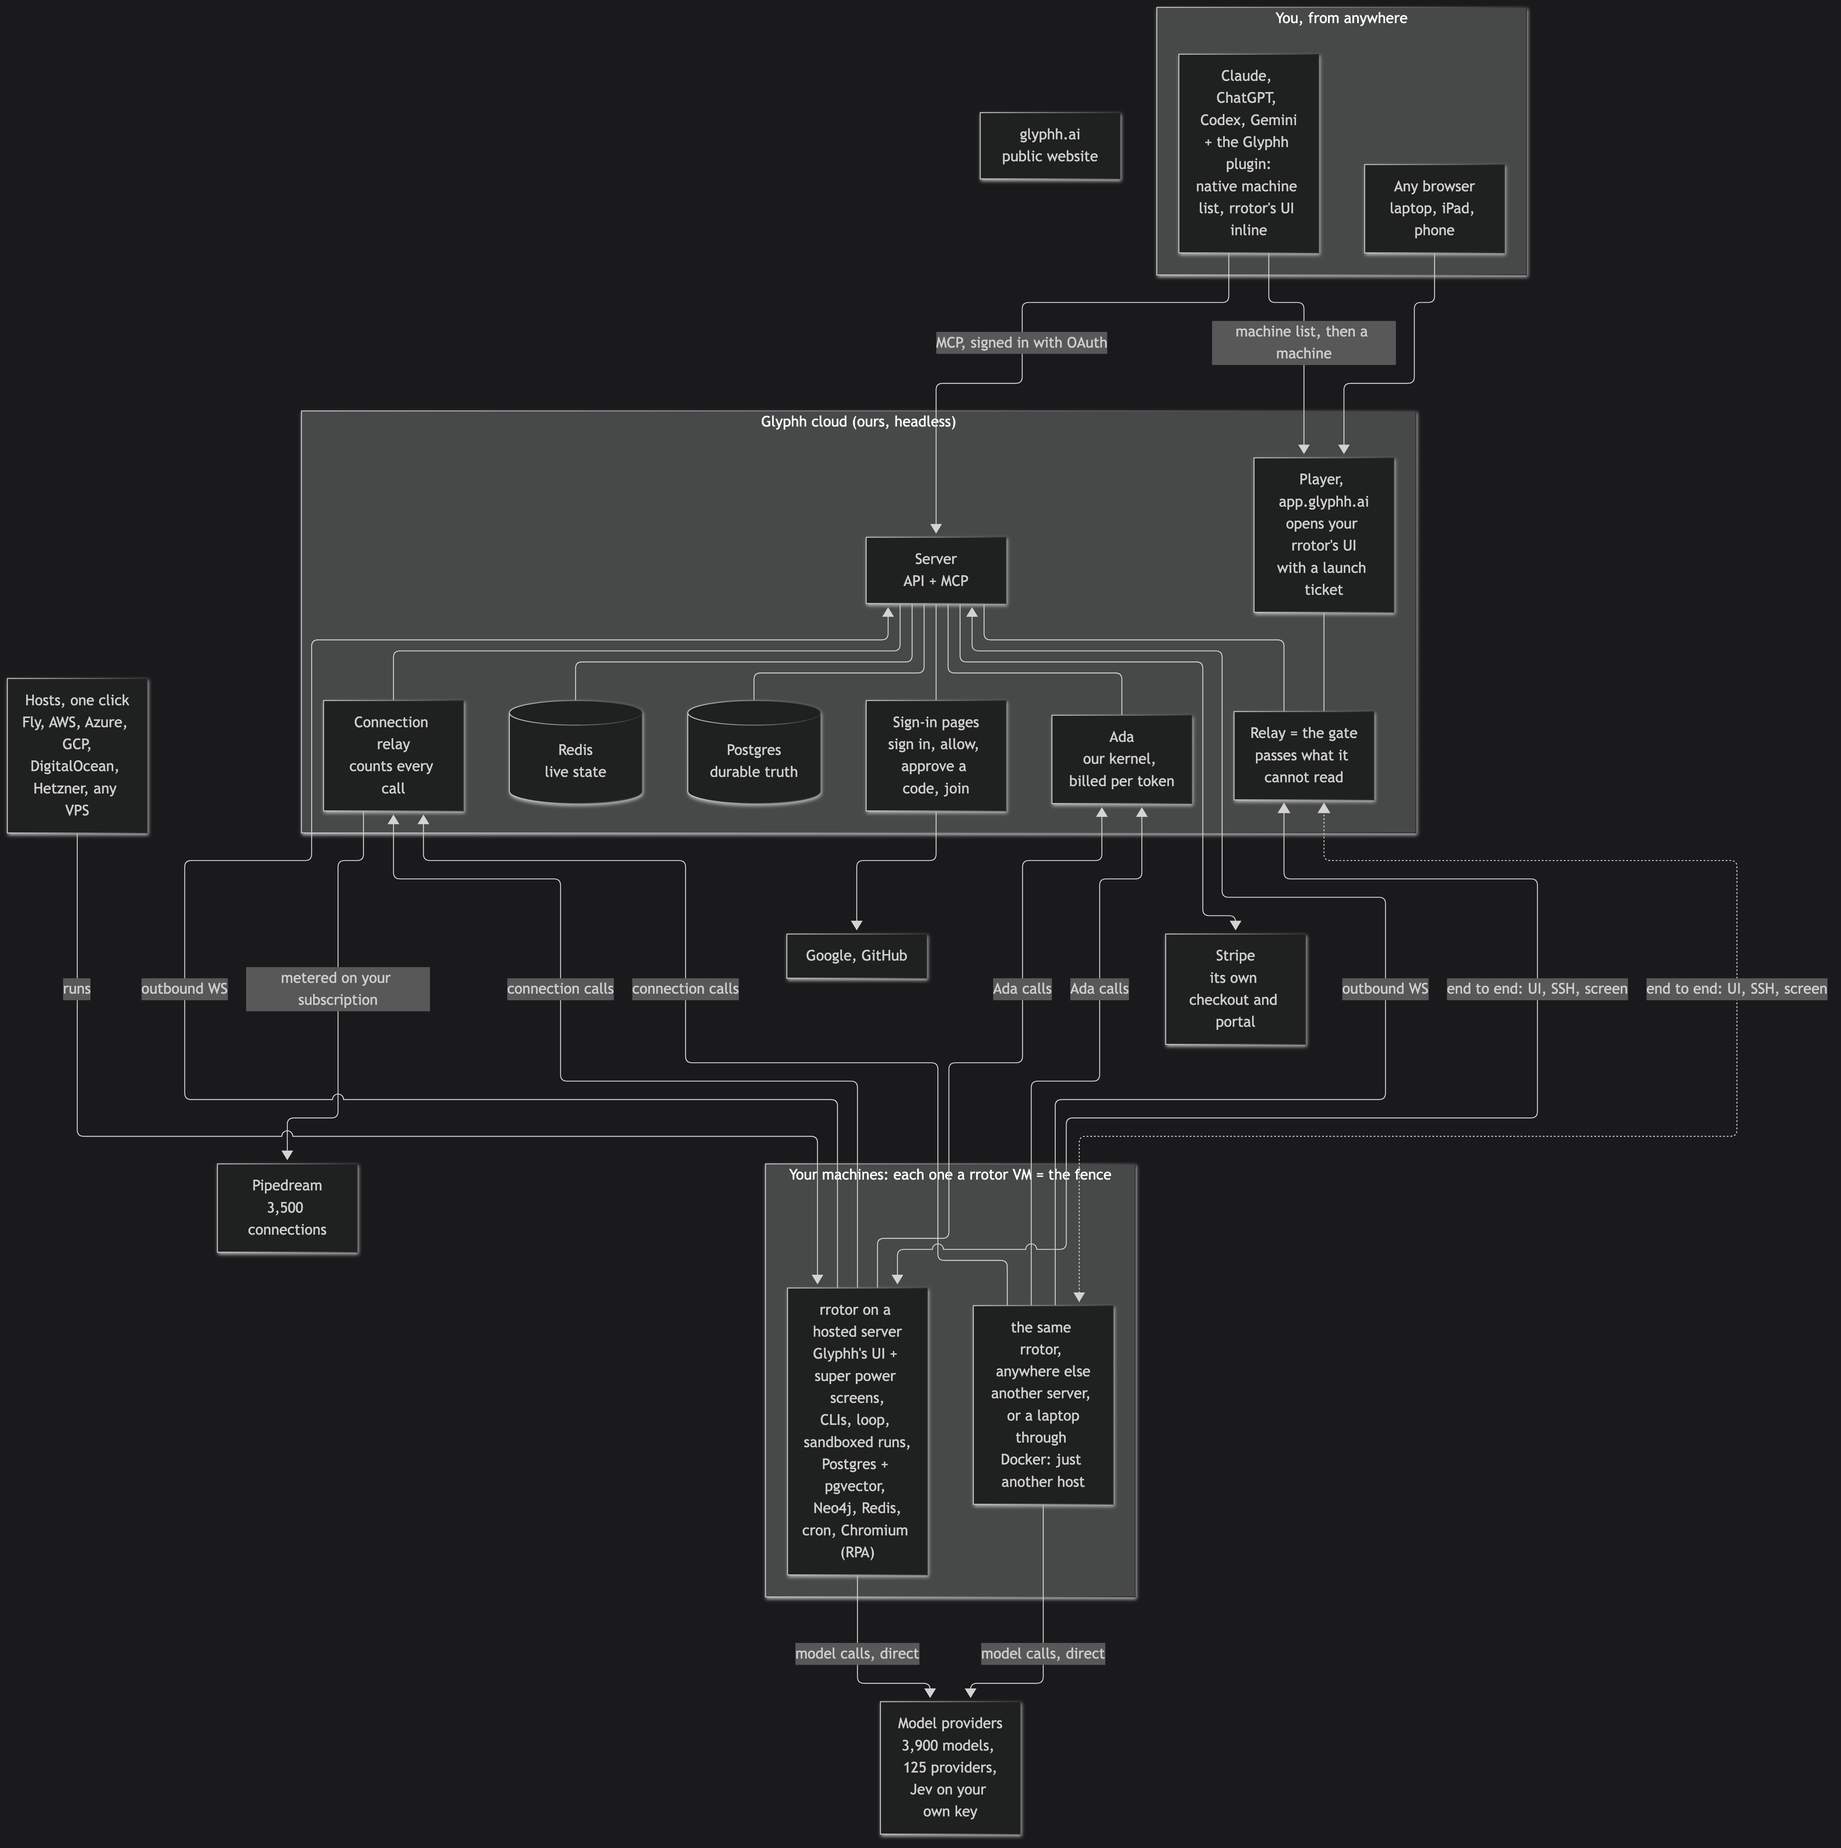
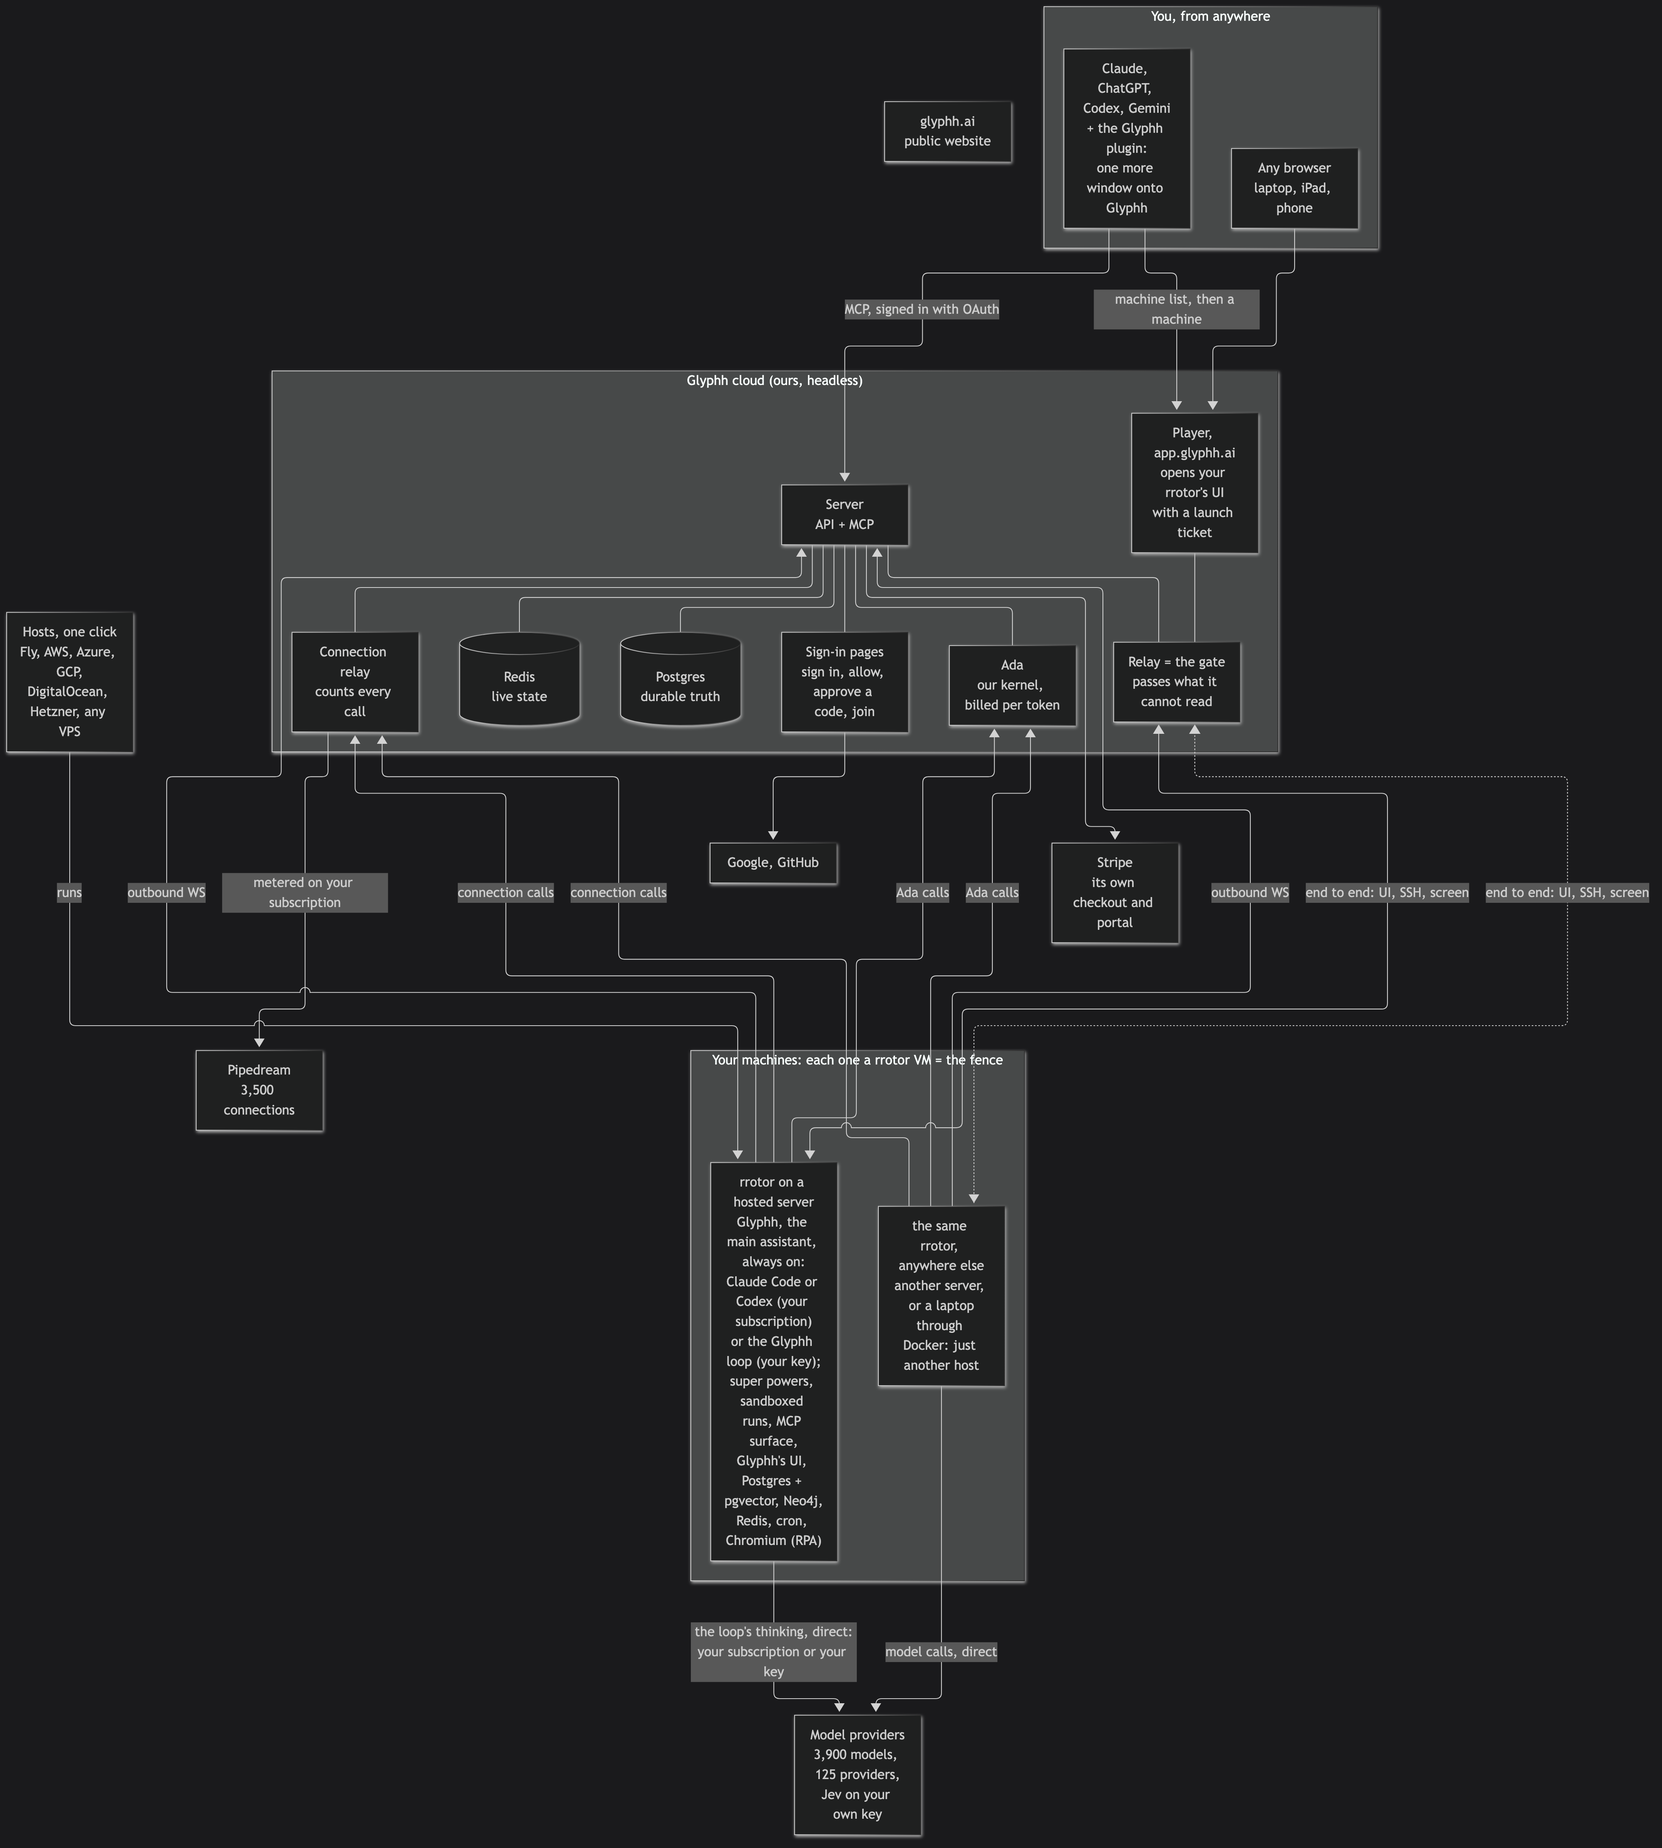
The main assistant: Glyphh in rrotor on one of three loops (Claude Code or Codex on the member's subscription, the Glyphh loop on their key), none priced by Glyphh; rrotor's MCP surface powers the orchestration

Changed region(s): [[0.0, 0.0, 0.9935, 0.6875], [0.4036, 0.5312, 0.6209, 1.0], [0.5278, 0.0625, 0.5899, 0.0938]]

diff --git a/docs/architecture.md b/docs/architecture.md
@@ -3,7 +3,7 @@
 ```mermaid
 flowchart TB
     subgraph You["You, from anywhere"]
-        Claude["Claude, ChatGPT, Codex, Gemini<br/>+ the Glyphh plugin:<br/>native machine list, rrotor's UI inline"]
+        Claude["Claude, ChatGPT, Codex, Gemini<br/>+ the Glyphh plugin:<br/>one more window onto Glyphh"]
         Browser["Any browser<br/>laptop, iPad, phone"]
     end
 
@@ -26,7 +26,7 @@ flowchart TB
     end
 
     subgraph Yours["Your machines: each one a rrotor VM = the fence"]
-        R1["rrotor on a hosted server<br/>Glyphh's UI + super power screens,<br/>CLIs, loop, sandboxed runs,<br/>Postgres + pgvector, Neo4j, Redis,<br/>cron, Chromium (RPA)"]
+        R1["rrotor on a hosted server<br/>Glyphh, the main assistant, always on:<br/>Claude Code or Codex (your subscription)<br/>or the Glyphh loop (your key);<br/>super powers, sandboxed runs, MCP surface,<br/>Glyphh's UI, Postgres + pgvector, Neo4j,<br/>Redis, cron, Chromium (RPA)"]
         R2["the same rrotor, anywhere else<br/>another server, or a laptop<br/>through Docker: just another host"]
     end
 
@@ -44,7 +44,7 @@ flowchart TB
     Relay <-. "end to end: UI, SSH, screen" .-> R2
     R1 -- "outbound WS" --> Server
     R2 -- "outbound WS" --> Server
-    R1 -- "model calls, direct" --> Providers
+    R1 -- "the loop's thinking, direct:<br/>your subscription or your key" --> Providers
     R2 -- "model calls, direct" --> Providers
     R1 -- "connection calls" --> ConnRelay
     R2 -- "connection calls" --> ConnRelay
@@ -81,7 +81,7 @@ A single-deployment, multi-tenant cloud SaaS, headless first: every capability i
 
 ### Paths
 
-- **rrotor → CLI or model → provider:** the thinking goes straight to the provider, on the member's own subscription or key. Glyphh never sees it.
+- **rrotor → CLI or model → provider:** the thinking goes straight to the provider, on the member's own subscription (Claude Code, Codex) or key (the Glyphh loop). Glyphh never sees it and never prices it.
 - **rrotor → connector → server:** every connection call goes through the server, which relays it to Pipedream and counts it, because each one is a cost Glyphh pays.
 - **rrotor → Ada → server:** every Ada call goes to Glyphh's own Ada kernel, which never leaves Glyphh's servers, and is billed per token.
 - **Jev is a model, on the first path:** the member adds TypeSafe's Jev with their own key, and rrotor calls TypeSafe directly. It is never on Glyphh's key, never through the server, and never charged.
@@ -98,10 +98,24 @@ Connections are the moat: about 3,500 services (Gmail, Slack, Salesforce, ...) t
 
 ### Glyphh and the super powers under it
 
-- **Glyphh, the super agent, has everything:** every power, every super power and every machine the member has. There is one per member, and it is what the member drives.
+- **Glyphh, the super agent, has everything:** every power, every super power and every machine the member has. There is one per member: the member's main assistant, the orchestrator.
 - **Every other super power sits under Glyphh and has only what it is granted:** its folders (read or write), connections, models, skills, tasks, plugins, the machines it may run on and the other super powers it may call. Its loop is picked, not granted: every super power has exactly one. Nothing else of the member's, whether or not anyone is watching.
 
 - **Who is driving decides what can be asked.** In a run the member drives, a tool set to `ask` asks them. In a run nobody is watching (autonomous: on a clock, or started by an agent), `ask` means refused, so it uses only tools that are allowed, by the member or by the super power's own override.
+
+### The main assistant: Glyphh, on the loop the member picks
+
+Decided 2026-10-11. Glyphh, the orchestrator, lives in the member's rrotor and is always on: a closed laptop changes nothing. Setting it up is choosing its loop, one of three, and none of them is priced in Glyphh tokens:
+
+1. **Claude Code, on the member's Claude subscription.** It is already installed in rrotor; the member only signs in, through Anthropic's own login, in the CLI's own terminal.
+2. **Codex, on the member's ChatGPT subscription.** The same: installed, the member signs in through OpenAI's own login (device code on a headless machine).
+3. **The Glyphh loop, on a model the member configured with their own key** (any of the catalog's models, Jev included).
+
+The same three are the loops a super power can run on, so a CLI is used like a model wherever a loop is picked.
+
+- **A CLI's sign-in stays in the CLI.** rrotor runs the unmodified program and shows its own login; the credentials stay in that program's files on that machine. Glyphh never collects, stores or passes them, and the server never sees them. rrotor reports only which CLIs are signed in. (Anthropic allows hosting Claude Code this way under its Commercial Terms, which Glyphh accepts; OpenAI's terms for Codex are to be confirmed.)
+- **rrotor's MCP surface powers the orchestration.** Whichever loop it runs on, the main assistant works through rrotor's own MCP tools: super powers and their grants, runs, schedules, connections, folders, the browser and the other machines. The same tools are what Claude reaches through the plugin, so the member's Claude on a desktop is one more window onto Glyphh, never what it depends on.
+- **Seeing and hearing the swarm:** the main assistant and its super powers run in the same rrotor, so its UI shows every running super power, its step, its log and its screens live, and the main assistant hears when one finishes, fails or needs an answer. When the member is away, the server sends a push or an email.
 
 Glyphh has the super power editor: the skills and tools to create a super power, grant and take back its powers, machines and super powers, and test-run it. Only Glyphh edits super powers; a super power under it cannot change its own grants or another's. Every editor step is a server operation, so it is an API call and an MCP tool too: a member edits a super power by talking to Glyphh, or in rrotor's UI. Ported from the old app's super power and power builders.
 
@@ -129,7 +143,7 @@ A task is a program rrotor runs, by hand, from a super power or on a clock, and 
 
 Everything a super power needs to run, on the member's own machine:
 
-- **The CLIs, already installed:** Claude Code, Codex, Gemini and the rest, ready to be a super power's loop.
+- **The CLIs, already installed:** Claude Code and Codex, ready to be the main assistant's or a super power's loop once the member signs in.
 - **Postgres with pgvector:** a super power's own data and its vectors. The server's Postgres has no pgvector; vectors live only in rrotor.
 - **Neo4j:** a super power's graph.
 - **Redis and cron:** queues, caches and the machine's own clock.

diff --git a/docs/data-model.md b/docs/data-model.md
@@ -36,6 +36,7 @@ erDiagram
     powers ||--o{ grants : "granted as"
     machines ||--o{ grants : "granted as"
     powers ||--o{ super_powers : "is the loop of"
+    powers |o--o{ loops : "thinks with"
     powers ||--o{ slots : "declares"
     powers ||--o{ slots : "fills"
     super_powers ||--o{ schedules : "on a clock"
@@ -230,7 +231,8 @@ erDiagram
 
     loops {
         uuid power_id PK, FK
-        text engine "claude, codex, gemini, ..., or rrotor's own"
+        text engine "claude_code (the member's Claude subscription), codex (their ChatGPT subscription) or glyphh (the Glyphh loop)"
+        uuid model_id FK "for glyphh: the model it thinks with, one of the member's; null for a CLI, which signs in on the machine"
     }
 
     super_powers {
@@ -573,7 +575,7 @@ Everything a super power uses is a power: a model, a connection, a folder, a ski
 
 The database enforces it: every power has a `user_id`.
 
-Every power is a row in `powers` (who owns it, its kind and name), and one row in the table for its kind, holding that kind's own columns: `models`, `connections`, `folders`, `browsers`, `skills`, `tasks`, `plugins` or `loops` (which engine runs a super power: a CLI, or rrotor's own). A super power points at `powers`, whatever the kind. What skills, tasks and plugins hold beyond their files is drawn when they are built.
+Every power is a row in `powers` (who owns it, its kind and name), and one row in the table for its kind, holding that kind's own columns: `models`, `connections`, `folders`, `browsers`, `skills`, `tasks`, `plugins` or `loops` (which engine runs a super power or the main assistant: Claude Code or Codex on the member's subscription, or the Glyphh loop on one of their models). A super power points at `powers`, whatever the kind. What skills, tasks and plugins hold beyond their files is drawn when they are built.
 
 - **A model** is a provider, the provider's model id and the API key (an optional base URL for providers that need one). rrotor calls the provider directly with that key: Glyphh never sits in the call, never sees its rates or prices, and never counts its tokens. What a model costs is between the person and their provider. A customer who wants limits or access rules puts their own AI gateway in front, through the base URL.
 - **A connection** is a user's own account at Pipedream: the service it connects to (Gmail, Slack, ...) and the account id. Pipedream calls a service an app; Glyphh says service, because an app is something else here. Glyphh stores no sign-in for it: Pipedream holds the account and its tokens, under the Glyphh user's id as Pipedream's external user id. Linking one: the server asks Pipedream for a connect token for that user, and Pipedream's own page does the sign-in. Using one: the loop reaches Pipedream's MCP server (`remote.mcp.pipedream.net/v3`) with the Pipedream project, environment, service (`x-pd-app-slug`) and the user's id as headers, and a short-lived Pipedream access token the server mints for the run (Glyphh's Pipedream client credentials never leave the server). Only Glyphh's connections are used: a super power's loop gets exactly its connections, nothing of the loop's own.
@@ -601,7 +603,7 @@ Every tool a power brings (each tool of a connection, of a plugin's MCP server, 
 
 Each member has one Glyphh, the super agent (`glyphh` true): it has every power, every super power and every machine they have, and needs no grants. Every other super power sits under it and has only its **grants**: each grant gives it one power (a folder, a connection, a model, a skill, a task or a plugin), one machine it may run on, or one other super power it may call. Nothing ungranted is ever handed to it, whether or not anyone is watching. A super power is one user's own, like every power: the org installs none.
 
-**A loop runs it; models are granted.** Every super power has one loop (`loop_id`): the CLI or rrotor's own engine that runs it. Its models are grants like any other power, as many as it needs: the super power uses them directly, and the powers it has use them too (a task's slots).
+**A loop runs it; models are granted.** Every super power has one loop (`loop_id`): Claude Code or Codex on the member's subscription, or the Glyphh loop on one of their models. The member's Glyphh has one too: its loop is the main assistant's. A CLI's sign-in never reaches this database; it stays in the CLI on the machine. Its models are grants like any other power, as many as it needs: the super power uses them directly, and the powers it has use them too (a task's slots).
 
 A super power's own files (its workflows, pipelines and screens) are a bundle in object storage (`bundle_key`); `definition` holds the rrotor definition, still to be drawn. What it stores (its data, vectors and graph) lives in rrotor, never here. Where the content of its conversations lives is still open.
 

diff --git a/docs/status.md b/docs/status.md
@@ -25,13 +25,14 @@ On the [data model](data-model.md), in the order they were drawn:
 - **People and machines:** `invites`, `machines` (with where they run, their SSH key, fingerprint and shell switch), `machine_sign_ins`, `fence_events` (what rrotor reports when a run reaches past its fence), `api_keys`; folders are on a machine, and folder grants are read or write.
 - **Signing in and Stripe:** `sign_in_identities` (Google and GitHub by the provider's own id), `oauth_clients` and `oauth_codes` (the plugin's sign-in), `launch_tickets` (open one machine's UI, once, for a minute), `stripe_events` (each webhook handled once).
 
-On the [architecture](architecture.md): no desktop app and no platform (every rrotor serves Glyphh's UI, opened in Claude or any browser through the player; sign-in once on the server; four sign-in pages), tasks with Jev (a model on the member's key) and Ada (our kernel, billed per token), dependencies and Discover, one full rrotor everywhere (a laptop is just another Docker host), Redis for live state (which process holds each machine, heartbeats, messages between processes), rrotor as a Linux VM (everything Glyphh runs is inside it, reached only by grants), usage and billing pages in rrotor's UI, adding a model in rrotor's UI, what rrotor carries (Postgres with pgvector, a Next.js server, the loop), and machine to machine over SSH through the relay.
+On the [architecture](architecture.md): the main assistant, Glyphh, in rrotor on one of three loops (Claude Code or Codex on the member's subscription, or the Glyphh loop on their own key; none priced by Glyphh), orchestrating through rrotor's MCP, no desktop app and no platform (every rrotor serves Glyphh's UI, opened in Claude or any browser through the player; sign-in once on the server; four sign-in pages), tasks with Jev (a model on the member's key) and Ada (our kernel, billed per token), dependencies and Discover, one full rrotor everywhere (a laptop is just another Docker host), Redis for live state (which process holds each machine, heartbeats, messages between processes), rrotor as a Linux VM (everything Glyphh runs is inside it, reached only by grants), usage and billing pages in rrotor's UI, adding a model in rrotor's UI, what rrotor carries (Postgres with pgvector, a Next.js server, the loop), and machine to machine over SSH through the relay.
 
 ## Open
 
 Decisions still to make. Where a proposal is written, it is a proposal, not a decision.
 
 - **Conversations:** not drawn. Proposal: the server keeps each conversation's record (title, super power, machine, run, status, times), rrotor keeps the messages, and rrotor's UI opens them through the player through the relay.
+- **Codex hosting terms:** confirm OpenAI's terms for hosting Codex signed in with a member's ChatGPT subscription; Glyphh accepts Anthropic's Commercial Terms for Claude Code.
 - **Ada in credits:** how the Ada price per token is stated in credits.
 - **Super powers in Discover:** whether a super power becomes one more power type (`super_powers` folds into `powers`) or keeps its own table and is listed the same way.
 - **Requirements and listings:** the tables for power dependencies and the Discover catalog, drawn when built.
